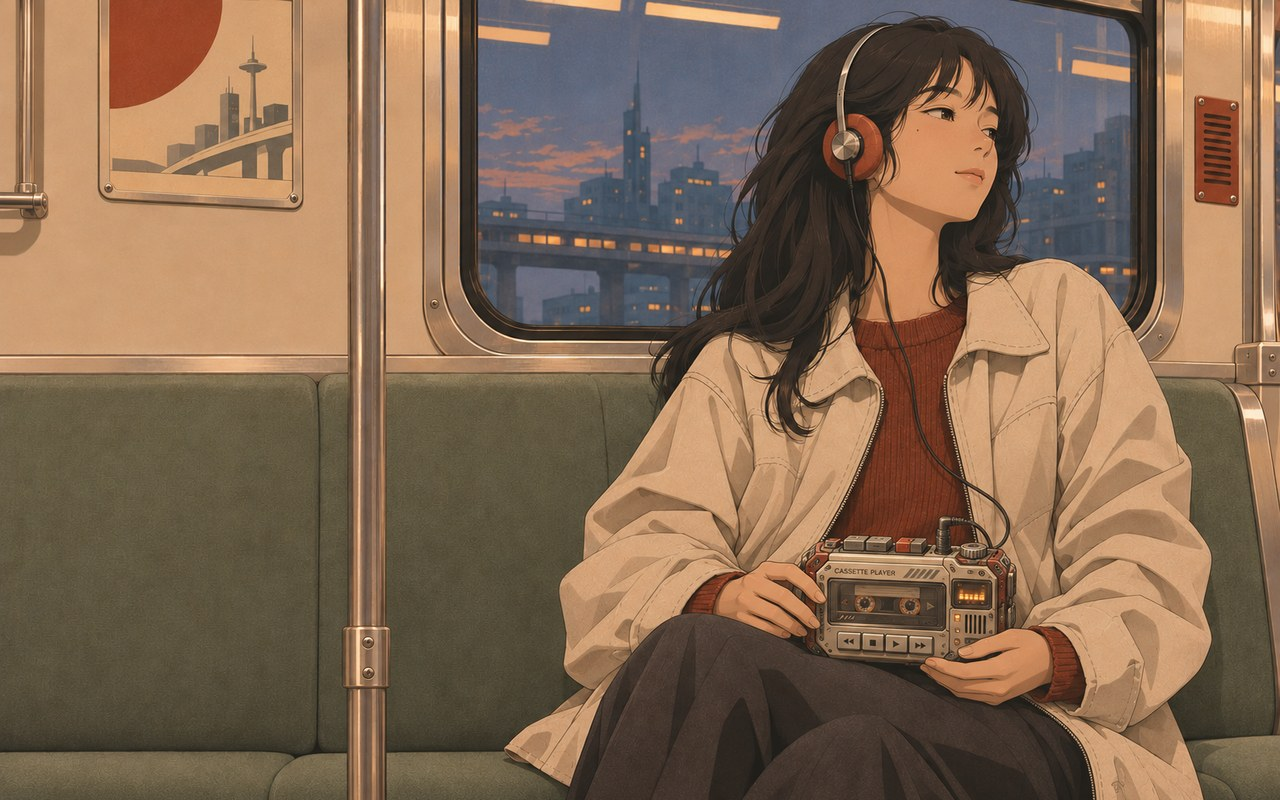
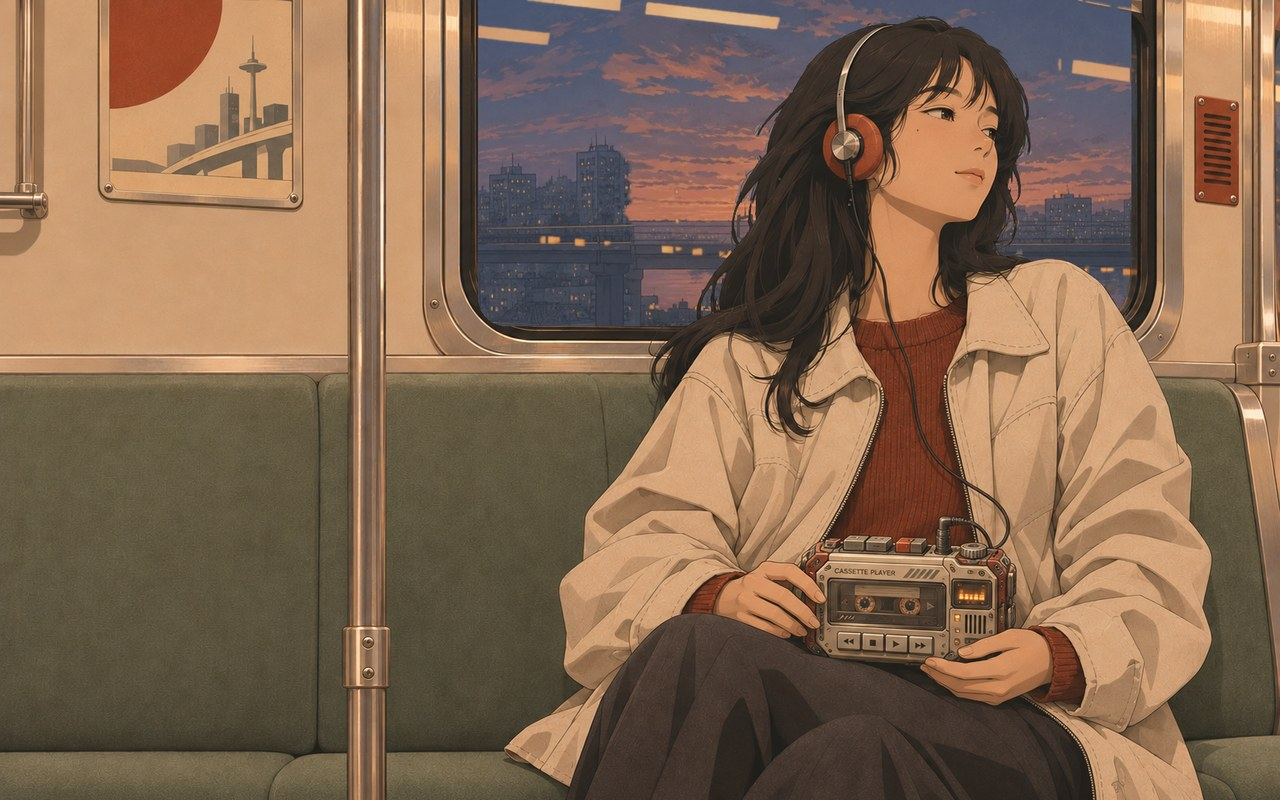
Retro Futurism: the city goes by outside the train's window
The view from the wallpaper's window is now a long sunset over the river
(the user's picture), made to loop without a seam and sliding past behind
the glass, under the reflected ceiling lights. It pauses while a window is
fullscreen or covers the glass; settings.json windowSeconds sets the pace.

Claude-Session: https://claude.ai/code/session_015VvhJ21Y4bjWDEYJNoFXMP

diff --git a/themes/retro-futurism/home/.config/quickshell/modules/Backdrop.qml b/themes/retro-futurism/home/.config/quickshell/modules/Backdrop.qml
@@ -20,14 +20,85 @@ PanelWindow {
     WlrLayershell.namespace: "retro-futurism-backdrop"
     color: "#0b0a0b"
 
+    // ---- the picture: the girl on the evening train. The city outside her
+    // window goes by: a long sunset (window-view.jpg, made to loop) slides
+    // behind the glass, and the train, she and the lights reflected in the
+    // glass lie over it (wallpaper-front.png, the glass cut out). A picture
+    // of your own (settings.json "wallpaper") is shown still, as it is.
+    readonly property bool ownPicture: Settings.wallpaper !== ""
     Image {
         anchors.fill: parent
-        source: Settings.wallpaper !== "" ? Settings.wallpaper : Settings.art + "/wallpaper.jpg"
+        visible: win.ownPicture
+        source: win.ownPicture ? Settings.wallpaper : ""
         fillMode: Image.PreserveAspectCrop
         asynchronous: true
         smooth: true
-        mipmap: false
         cache: false
+    }
+    Item {
+        id: scene
+        anchors.fill: parent
+        visible: !win.ownPicture
+
+        // the picture's own pixels (1585 x 992) to the screen, as
+        // PreserveAspectCrop lays it
+        readonly property real iw: 1585
+        readonly property real ih: 992
+        readonly property real k: Math.max(width / iw, height / ih)
+        readonly property real ox: (width - iw * k) / 2
+        readonly property real oy: (height - ih * k) / 2
+
+        // the glass: 592,0 to 1400,403 in the picture
+        Item {
+            id: glass
+            x: scene.ox + 592 * scene.k; y: scene.oy
+            width: 808 * scene.k; height: 403 * scene.k
+            clip: true
+
+            // the view, two copies end to end, sliding left as the train goes
+            // (the loop is 1580 x 603; shown at 0.862 of the picture's scale,
+            // its viaduct level with the old one, at y 300)
+            readonly property real loopW: 1580 * 0.862 * scene.k
+            readonly property real loopH: 603 * 0.862 * scene.k
+            readonly property bool still: Settings.windowSeconds <= 0
+                // nothing to see: a fullscreen window, or one over the whole glass
+                || Hypr.fullscreen
+                || Hypr.windows.some(w => w.x <= glass.x && w.y <= glass.y
+                                       && w.x + w.w >= glass.x + glass.width
+                                       && w.y + w.h >= glass.y + glass.height)
+            Row {
+                id: view
+                y: (300 - 376 * 0.862) * scene.k
+                Repeater {
+                    model: 2
+                    Image {
+                        width: glass.loopW; height: glass.loopH
+                        source: Settings.art + "/window-view.jpg"
+                        fillMode: Image.Stretch
+                        asynchronous: true
+                        smooth: true
+                    }
+                }
+                NumberAnimation on x {
+                    from: 0; to: -glass.loopW
+                    duration: Math.max(1, Settings.windowSeconds) * 1000
+                    loops: Animation.Infinite
+                    running: !win.ownPicture
+                    paused: running && glass.still
+                }
+            }
+            // the glass itself: a faint cool cast over what lies outside
+            Rectangle { anchors.fill: parent; color: "#465578"; opacity: 0.10 }
+        }
+
+        Image {
+            anchors.fill: parent
+            source: Settings.art + "/wallpaper-front.png"
+            fillMode: Image.PreserveAspectCrop
+            asynchronous: true
+            smooth: true
+            cache: false
+        }
     }
 
     // ---- the frame lines

diff --git a/themes/retro-futurism/home/.config/quickshell/services/Settings.qml b/themes/retro-futurism/home/.config/quickshell/services/Settings.qml
@@ -29,6 +29,9 @@ Singleton {
     readonly property string search: get("search", "https://www.google.com/search?q=%s")
     // a picture of your own instead of the theme's: ~/.config/ultra/retro-futurism/wallpaper.jpg
     readonly property string wallpaper: get("wallpaper", "")
+    // the city outside the train's window: seconds for the view to come
+    // round once (0 holds it still)
+    readonly property int windowSeconds: get("windowSeconds", 90)
 
     FileView {
         id: file

diff --git a/themes/retro-futurism/tools/make_wallpaper_front.py b/themes/retro-futurism/tools/make_wallpaper_front.py
@@ -1,0 +1,61 @@
+#!/usr/bin/env python3
+# python3 tools/make_wallpaper_front.py art/Retro-Futuristic-Wallpaper.png front.png reflections.png check.png
+# (then lay reflections.png over front.png: wallpaper-front.png)
+# The wallpaper with the window's glass made see-through, the girl kept in
+# front of it, and the glass's reflections kept apart (a layer of their own).
+import sys
+from PIL import Image, ImageFilter, ImageDraw
+import numpy as np
+from collections import deque
+src, outFront, outRefl, outCheck = sys.argv[1:5]
+im = Image.open(src).convert('RGB'); a = np.asarray(im).astype(float)
+H, W, _ = a.shape
+R, G, B = a[..., 0], a[..., 1], a[..., 2]
+lum = 0.3 * R + 0.59 * G + 0.11 * B
+# the glass: a rounded rectangle inside the frame's rubber seal
+gx0, gy0, gx1, gy1, rad = 592, 0, 1400, 403, 34
+gm = Image.new('L', (W, H), 0)
+ImageDraw.Draw(gm).rounded_rectangle([gx0, gy0 - 40, gx1, gy1], rad, fill=255)
+glass = np.asarray(gm) > 127
+# warm pixels: her hair, skin, headphones, coat (the view is cool); some clouds
+# and lights are warm too, but they are islands apart from her
+warm = (R - B) > 4
+# her: the warm region joined to her face, inside the glass
+seed = (1150, 230)
+girl = np.zeros((H, W), bool)
+q = deque([seed]); girl[seed[1], seed[0]] = True
+# hair (dark and warm) may spread anywhere; the bright warm parts (face,
+# headphones, coat) only near her body, so lit clouds and windows stay out
+body = Image.new('L', (W, H), 0)
+ox = 540
+ImageDraw.Draw(body).polygon([(x + ox, y) for x, y in [(465, 125), (495, 35), (610, 30), (705, 110),
+    (725, 265), (690, 325), (900, 320), (900, 445), (430, 445), (465, 375), (460, 200)]], fill=255)
+body = np.asarray(body) > 127
+region = glass & warm & ((lum < 105) | body)
+while q:
+    x, y = q.popleft()
+    for nx, ny in ((x+1, y), (x-1, y), (x, y+1), (x, y-1)):
+        if 0 <= nx < W and 0 <= ny < H and region[ny, nx] and not girl[ny, nx]:
+            girl[ny, nx] = True; q.append((nx, ny))
+# close little holes in her (glints in the hair, lit windows seen between strands)
+gi = Image.fromarray((girl * 255).astype('uint8')).filter(ImageFilter.MaxFilter(3)).filter(ImageFilter.MinFilter(3))
+girl = np.asarray(gi) > 127
+# soft edge for hair strands: how warm a pixel is decides how much of her it is
+soft = np.clip(((R - B) + 6) / 14, 0, 1)
+edge = (np.asarray(gi.filter(ImageFilter.MaxFilter(5))) > 127) & ~girl
+alpha_girl = np.where(girl, 1.0, np.where(edge, soft, 0.0))
+# the reflections: the ceiling lights mirrored at the top of the glass
+refl = glass & ~girl & (lum > 165) & ((R - B) > 40)
+ri = Image.fromarray((refl * 255).astype('uint8')).filter(ImageFilter.MaxFilter(3)).filter(ImageFilter.GaussianBlur(1.2))
+ralpha = np.asarray(ri).astype(float) / 255 * 0.85
+# front: everything opaque except the glass that is not her
+alpha = np.where(glass, alpha_girl, 1.0)
+front = np.dstack([a, alpha * 255]).astype('uint8')
+Image.fromarray(front, 'RGBA').save(outFront)
+rl = np.dstack([a, ralpha * 255]).astype('uint8')
+Image.fromarray(rl, 'RGBA').save(outRefl)
+# a check picture: the see-through part bright green
+chk = a.copy(); t = (1 - alpha)[..., None]
+chk = chk * (1 - t) + np.array([40, 255, 90]) * t
+Image.fromarray(chk.astype('uint8')).crop((540, 0, 1440, 440)).save(outCheck)
+print('girl px', int(girl.sum()), 'reflection px', int(refl.sum()))

diff --git a/themes/retro-futurism/tools/make_window_loop.py b/themes/retro-futurism/tools/make_window_loop.py
@@ -1,0 +1,50 @@
+#!/usr/bin/env python3
+# python3 tools/make_window_loop.py art/WindowView.png window-view.jpg 420
+# Make the panorama loop: level the viaduct, then join the right end to
+# the left along the cut where they look most alike.
+import sys
+from PIL import Image
+import numpy as np
+src, out, O = sys.argv[1], sys.argv[2], int(sys.argv[3])
+p = np.asarray(Image.open(src).convert('RGB')).astype(float)
+H, W, _ = p.shape
+# 1. level: each column moved so the deck's top is at y 408
+x = np.arange(W)
+deck = 385 + (x - 200) * (47 / 1500)
+shift = deck - 408                                  # >0: move the column up
+lev = np.empty_like(p)
+ys = np.arange(H)
+for i in range(W):
+    sy = np.clip(ys + shift[i], 0, H - 1)
+    y0 = np.floor(sy).astype(int); y1 = np.minimum(y0 + 1, H - 1); f = (sy - y0)[:, None]
+    lev[:, i] = p[y0, i] * (1 - f) + p[y1, i] * f
+top, bot = 32, H - 32                               # rows left whole after the move
+lev = lev[top:bot]; H2 = lev.shape[0]
+# 2. the overlap: the last O columns over the first O
+A = lev[:, W - O:]                                  # end
+B = lev[:, :O]                                      # start
+cost = np.sqrt(((A - B) ** 2).sum(2))
+# smooth a little, so the cut follows shapes rather than noise
+k = np.ones(5) / 5
+cost = np.apply_along_axis(lambda r: np.convolve(r, k, 'same'), 1, cost)
+# keep the cut away from the overlap's own edges
+edge = np.minimum(np.arange(O), O - 1 - np.arange(O))
+cost += np.where(edge < 30, (30 - edge) * 8.0, 0)[None, :]
+# cheapest top-to-bottom path, one column step a row at most
+acc = cost.copy(); back = np.zeros_like(cost, dtype=int)
+for y in range(1, H2):
+    prev = acc[y - 1]
+    l = np.r_[np.inf, prev[:-1]]; r = np.r_[prev[1:], np.inf]
+    st = np.stack([l, prev, r]); j = st.argmin(0)
+    acc[y] += st[j, np.arange(O)]; back[y] = j - 1
+seam = np.zeros(H2, int); seam[-1] = acc[-1].argmin()
+for y in range(H2 - 1, 0, -1): seam[y - 1] = seam[y] + back[y, seam[y]]
+# blend: the end's pixels left of the cut, the start's right of it, a soft few px
+cols = np.arange(O)[None, :]
+t = np.clip((cols - seam[:, None]) / 6 + 0.5, 0, 1)[..., None]
+mix = A * (1 - t) + B * t
+# the loop: start's columns after the overlap, then the end up to the overlap, then the blend
+loop = np.concatenate([lev[:, O:W - O], mix], axis=1)
+# (the blend's right side is the start's columns 0..O, which follow lev[:, O] seamlessly)
+Image.fromarray(np.clip(loop, 0, 255).astype('uint8')).save(out)
+print('loop width', loop.shape[1], 'height', loop.shape[0], 'seam x range', seam.min(), seam.max())

diff --git a/themes/retro-futurism/README.md b/themes/retro-futurism/README.md
@@ -9,7 +9,13 @@ Gadgets in steel, cream and sage with e-ink screens.
 
 ## Done so far
 
-- **Wallpaper**: the girl on the evening train.
+- **Wallpaper**: the girl on the evening train, and the city going by
+  outside her window: a long sunset over the river (`art/WindowView.png`,
+  made to loop without a seam) slides past behind the glass, under the
+  ceiling lights reflected in it. It comes round once every 90 seconds
+  (`"windowSeconds"` in `~/.config/ultra/retro-futurism/settings.json`;
+  0 holds it still) and stops while a window is fullscreen or covers the
+  whole glass.
 - **Lock screen**: her room at night. The Suisei clock on the night stand
   is live: the time (the colon blinks each second) and the date in its
   dot-matrix strip. The rest of the picture stays still. Type the password
@@ -29,3 +35,16 @@ with the clock's window and date strip emptied (also kept as
 places the live parts in the picture's own pixels (1671 x 941):
 `components/SevenSegment.qml` in the window (100,634 to 254,711) and
 `components/DotMatrix.qml` in the date strip (114,723 to 218,740).
+
+## How the window's view is made
+
+- `tools/make_window_loop.py` turns `art/WindowView.png` into
+  `window-view.jpg`: each column moved up or down so the viaduct runs level,
+  then the right end joined to the left along the cut where the two look
+  most alike (it follows a tower's edge), so the strip repeats without a seam.
+- `tools/make_wallpaper_front.py` makes `wallpaper-front.png`: the
+  wallpaper with the glass see-through, except where she is in front of it
+  (her hair is warm, the city cool: the warm region joined to her face), and
+  the reflected ceiling lights kept over the glass.
+- `modules/Backdrop.qml` lays the view in the glass (592,0 to 1400,403 in
+  the 1585 x 992 picture) and the front over it.

diff --git a/docs/HANDOVER.md b/docs/HANDOVER.md
@@ -71,7 +71,7 @@ mesh Wi-Fi (Botsync_PilotB_Mesh), see `ultra-lan`.
     OS", gadgets in steel, cream and sage with e-ink screens. The user's
     mock-ups are in its `art/` (see its README). Begun as a copy of
     Viewfinder's box; only the wallpaper and the lock screen are its own so
-    far. On the lock screen only the clock is live (the user's choice: the
+    far (the window of the wallpaper shows a sunset scrolling past, see the box README). On the lock screen only the clock is live (the user's choice: the
     other gadgets in the picture stay still); see the box's README.
 - **In the first two** (each box has its own copy): ticket-stub workspaces, title-bar
   tickets (archivebars plugin, `home/.local/share/ultra/<id>/plugins/`),

diff --git a/themes/retro-futurism/art/README.md b/themes/retro-futurism/art/README.md
@@ -4,7 +4,7 @@ Mock-ups and references for Retro Futurism: the pictures to match.
 
 | Part | Pictures |
 | --- | --- |
-| Wallpaper | [Retro-Futuristic-Wallpaper](Retro-Futuristic-Wallpaper.png) |
+| Wallpaper | [Retro-Futuristic-Wallpaper](Retro-Futuristic-Wallpaper.png); the view from its window, [WindowView](WindowView.png) (scrolls past behind the glass) |
 | Bar | [TaskbarEg](TaskbarEg.png) |
 | Windows | [WindowFrame](WindowFrame.png) |
 | Terminal | [Terminal1](Terminal1.png), [Terminal2](Terminal2.png) |
